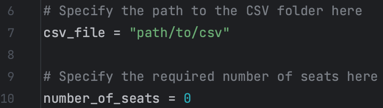
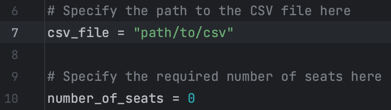
readme python

diff --git a/main.py b/main.py
@@ -3,7 +3,7 @@ import csvconvert
 import simplecsv
 import pyrankvote
 
-# Specify the path to the CSV folder here
+# Specify the path to the CSV file here
 csv_file = "path/to/csv"
 
 # Specify the required number of seats here

diff --git a/README.md b/README.md
@@ -1,5 +1,5 @@
 ## To run the program:
-
+The program runs in Python, so make sure you have Python installed.
 1. Open the project in your desired IDE
 
 2. Open terminal and enter:  
